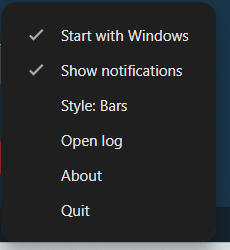
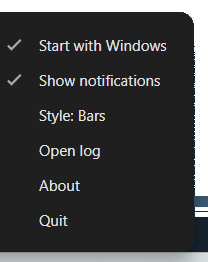
cut the desktop background out of the tray menu screenshots

diff --git a/scripts/capture-tray-menu.js b/scripts/capture-tray-menu.js
@@ -18,15 +18,18 @@
 // bounds instead makes it land in the same place every run. MENU_CROP was
 // then hand-verified against a full-screen reference capture at that fixed
 // position - re-derive it the same way if the menu ever moves.
-const MENU_CROP = { x: 1563, y: 898, width: 230, height: 250 };
+const MENU_CROP = { x: 1585, y: 888, width: 208, height: 262 };
 
 const { app, Tray, nativeImage, nativeTheme } = require('electron');
 const { execFileSync } = require('child_process');
+const { createCanvas, loadImage } = require('@napi-rs/canvas');
+const fs = require('fs');
 const path = require('path');
 const { renderFractionIcon } = require('../src/icon/render');
 const { buildTrayMenu } = require('../src/main/menu');
 
 const OUT_DIR = path.join(__dirname, '..', 'docs');
+const BG_MATCH_THRESHOLD = 24;
 
 function capturePowerShellRegion(x, y, width, height, outPath) {
   const script = `
@@ -39,6 +42,54 @@ $g.Dispose()
 $bmp.Dispose()
 `;
   execFileSync('powershell.exe', ['-NoProfile', '-NonInteractive', '-Command', script]);
+}
+
+// The crop still has whatever was behind the menu (this machine's desktop)
+// filling its corners, since the real menu card has rounded corners. Flood-
+// fills from every border pixel and erases anything close in color to what
+// it started from, leaving the card (and its soft drop shadow, which fades
+// gradually rather than in one flat color and so mostly survives the color
+// threshold) on a transparent background instead of a solid rectangle.
+async function cutBackgroundTransparent(pngPath) {
+  const img = await loadImage(fs.readFileSync(pngPath));
+  const { width, height } = img;
+  const canvas = createCanvas(width, height);
+  const ctx = canvas.getContext('2d');
+  ctx.drawImage(img, 0, 0);
+  const imageData = ctx.getImageData(0, 0, width, height);
+  const { data } = imageData;
+
+  // The crop margin guarantees the very corner is background, not the card.
+  const [seedR, seedG, seedB] = [data[0], data[1], data[2]];
+
+  const visited = new Uint8Array(width * height);
+  const stack = [];
+  for (let x = 0; x < width; x++) {
+    stack.push(x, x + (height - 1) * width);
+  }
+  for (let y = 0; y < height; y++) {
+    stack.push(y * width, y * width + (width - 1));
+  }
+
+  while (stack.length) {
+    const idx = stack.pop();
+    if (visited[idx]) continue;
+    visited[idx] = 1;
+    const o = idx * 4;
+    const dist = Math.abs(data[o] - seedR) + Math.abs(data[o + 1] - seedG) + Math.abs(data[o + 2] - seedB);
+    if (dist > BG_MATCH_THRESHOLD) continue;
+
+    data[o + 3] = 0;
+    const px = idx % width;
+    const py = Math.floor(idx / width);
+    if (px > 0) stack.push(idx - 1);
+    if (px < width - 1) stack.push(idx + 1);
+    if (py > 0) stack.push(idx - width);
+    if (py < height - 1) stack.push(idx + width);
+  }
+
+  ctx.putImageData(imageData, 0, 0);
+  fs.writeFileSync(pngPath, canvas.toBuffer('image/png'));
 }
 
 app.whenReady().then(async () => {
@@ -81,6 +132,7 @@ app.whenReady().then(async () => {
     });
     await new Promise((r) => setTimeout(r, 500));
 
+    await cutBackgroundTransparent(outPath);
     console.log('wrote', outPath);
   }
 
